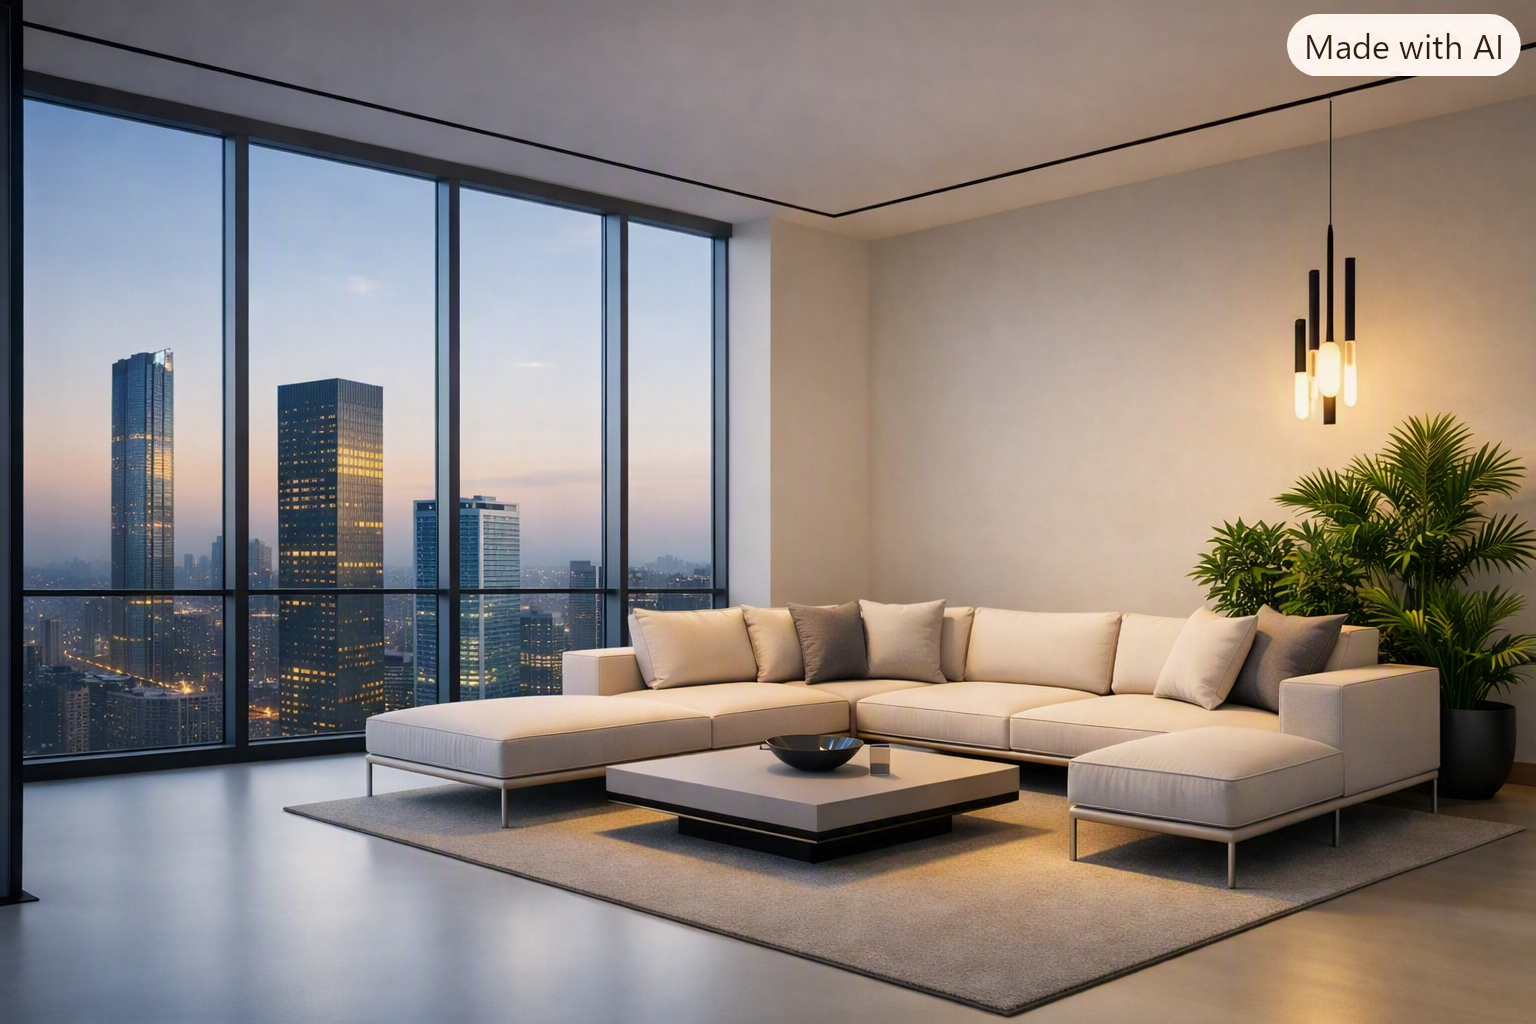
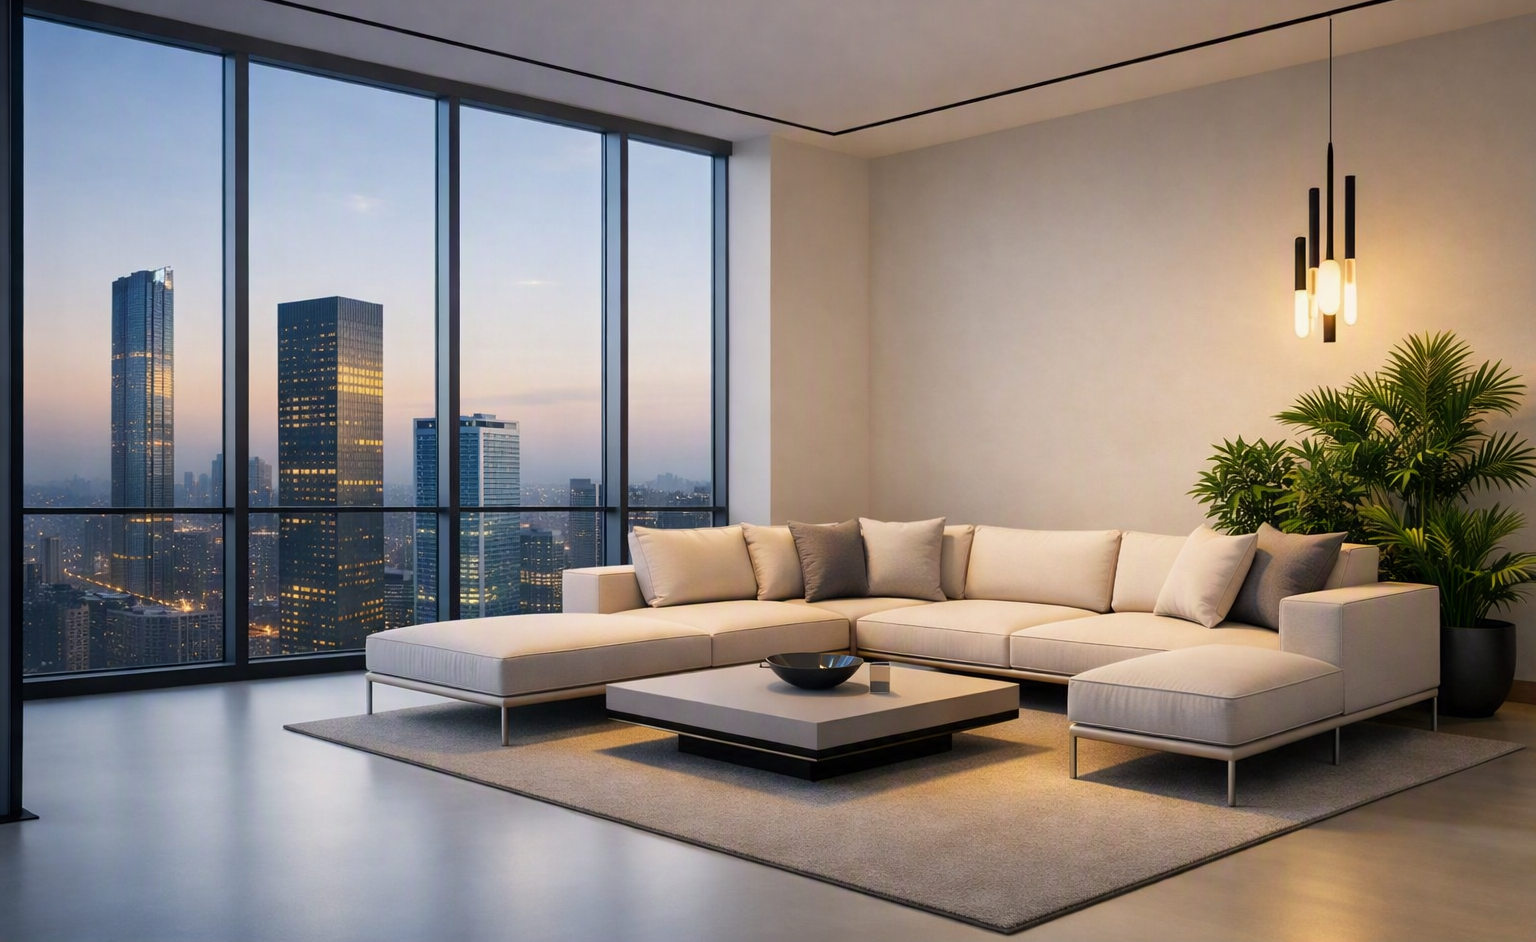
responsive navbar on mobile size

diff --git a/index.html b/index.html
@@ -41,7 +41,6 @@
                 >
             </a>
 
-
             <!-- Mobile Button -->
             <button
                 class="navbar-toggler"
@@ -58,39 +57,39 @@
             <!-- Navbar Content -->
             <div class="collapse navbar-collapse justify-content-end" id="navbarContent">
 
-                <ul class="navbar-nav mr-5 gap-lg-3 ">
+                <ul class="navbar-nav mr-5 gap-lg-3 d-flex flex-row ">
 
-                    <li class="nav-item">
+                    <li class="nav-item mx-md-2">
                         <a class="nav-link" href="#">
                             Home
                         </a>
                     </li>
 
-                    <li class="nav-item">
+                    <li class="nav-item mx-md-2">
                         <a class="nav-link" href="#">
                             About
                         </a>
                     </li>
 
-                    <li class="nav-item">
+                    <li class="nav-item mx-md-2">
                         <a class="nav-link" href="#">
                             Home 
                         </a>
                     </li>
 
-                    <li class="nav-item">
+                    <li class="nav-item mx-md-2">
                         <a class="nav-link" href="#">
                           Office
                         </a>
                     </li>
 
-                    <li class="nav-item">
+                    <li class="nav-item mx-md-2">
                         <a class="nav-link" href="#">
                             Decor
                         </a>
                     </li>
 
-                    <li class="nav-item">
+                    <li class="nav-item mx-md-2">
                         <a class="nav-link" href="#">
                             Contact
                         </a>
@@ -98,25 +97,11 @@
 
                 </ul>
 
-
-                <!-- Search -->
-                <form class="d-flex gap-2 mt-3 mt-lg-0">
-
-                    <input
-                        type="search"
-                        class="form-control"
-                        placeholder="Search..."
-                        aria-label="Search"
-                    >
-
-                    <button
-                        type="submit"
-                        class="btn btn-success text-nowrap"
-                    >
-                        Search
-                    </button>
-
+                <form class="d-flex flex-sm-row align-items">
+                <input type="text" class="form-control mb-sm-0 me-sm-2  " placeholder="Search...">
+                <button class="btn btn-success" type="submit">Search</button>
                 </form>
+
             </div>
         </div>
     </nav>
@@ -496,7 +481,7 @@
                 <!-- Left Side -->
                 <div class="col-12 col-lg-6 col-md-12  left triples">
 
-                    <div data-aos="fade-out" class="trade-content px-5">
+                    <div data-aos="fade-out" class="trade-content mx-lg-5 mx-md-2">
                         <h3 class="my-4">Crafted for the moments that matter.</h3>
                         <p>NestCraft brings timeless elegance into modern homes. Our furniture blends rich textures, graceful curves, and enduring quality—each piece designed to make your space feel both luxurious and inviting.</p>
                         <p>Every NestCraft piece is more than furniture—it’s a story of comfort, beauty, and connection, shaped to reflect your lifestyle and taste.</p>

diff --git a/style.css b/style.css
@@ -168,7 +168,7 @@ nav .nav-link:hover{
 
 
 /* Mobile */
-@media (max-width: 578px) {
+@media (max-width: 574px) {
 
     .product-scroll {
         overflow-x: hidden;
@@ -190,6 +190,21 @@ nav .nav-link:hover{
         object-fit:fill;
     }
 }
+@media (max-width: 578px){
+  nav ul li{
+    margin: 0 5px;}
+    #mainNavbar.scrolled .navbar-toggler{
+      background-color:#198754;
+
+    }
+    #mainNavbar.scrolled .navbar-toggler-icon{
+      padding: 16px;
+      font-size: 12px;
+
+    }
+  }
+
+
 
 /* product-scroll finish */
 
@@ -303,3 +318,4 @@ nav .nav-link:hover{
   font-weight: 700;
   src: local('Lato Bold'), local('Lato-Bold'), url(http://themes.googleusercontent.com/static/fonts/lato/v6/wkfQbvfT_02e2IWO3yYueQ.woff) format('woff');
 }
+
